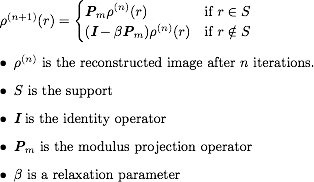
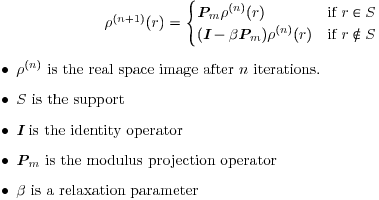
Added more documentation and a script to automagically parse latex documentation embedded in the sources files.

diff --git a/src/metadata.c b/src/metadata.c
@@ -163,10 +163,11 @@ static const char autocorrelation_algorithm_treshold_doc[] = "Apply a threshold 
 static const char autocorrelation_algorithm_area_doc[] = "Use as initial support the most intense pixels in the autocorrelation up to a certain fraction the total number of pixels. <p>The fraction is set in <em>Autocorrelation Area</em>.</p>";
 
 static const char phasing_algorithm_hio_doc[] = "<p>Use the Hybrid Input-Output(<b>HIO</b>) algorithm for phasing.</p>"
-"<p><b>HIO</b> is defined in <b>Fienup, J. R. </b> Reconstruction of an object from the modulus of its mfourier transform. <em>Opt. Lett.</em> (1978) as:</p>"
+"<p><b>HIO</b> is defined in <b>Fienup, J. R. </b> Reconstruction of an object from the modulus of its fourier transform. <em>Opt. Lett.</em> (1978) as:</p>"
 "<p><center><img src=\":/images/hio_formula.png\"></center></p>";
-
-/* Latex code for the HIO formula 
+/*
+ HIO formula 
+##LaTeX code begin for file HawkGUI/images/hio_formula.png##
 
 $\rho^{(n+1)}(r) = \begin{cases} 
 {\textbf{\em P}}_m \rho^{(n)}(r)  & \mbox{if } r \in S \\ 
@@ -174,19 +175,117 @@ $\rho^{(n+1)}(r) = \begin{cases}
 \end{cases}
 $
 \begin{itemize}
-\item $\rho^{(n)}$ is the reconstructed image after $n$ iterations.
+\item $\rho^{(n)}$ is the real space image after $n$ iterations.
 \item $S$ is the support
 \item ${\textbf{\em I}}$ is the identity operator
 \item ${\textbf{\em P}}_m$ is the modulus projection operator
 \item $\beta$ is a relaxation parameter
 \end{itemize}
-
+##LaTeX code end##
 */
 
-//static const char phasing_algorithm_hio_doc[] = 
-  //  "<img src='doc.trolltech.com/4.6/images/qt-logo.png'>";
-//"<img src=\":images/hio_formula.png\" height=50px>";
+static const char phasing_algorithm_dm_doc[] = "<p>Use the Difference Map(<b>DM</b>) algorithm for phasing.</p>"
+"<p><b>DM</b> is defined in <b>Elser, V.</b> Phase retrieval by iterated projections "
+"<em>J. Opt. Soc. Am. A</em> <b>20</b>, 40 (2003) as:</p>"
+"<p><center><img src=\":/images/dm_formula.png\"></center></p>";
+/*
+DM formula 
+ ##LaTeX code begin for file HawkGUI/images/dm_formula.png##
 
+$\rho^{(n+1)}(r) = \left\{{\textbf{\em I}} + \beta {\textbf{\em P}}_s \left[(1+\gamma_s) {\textbf{\em P}}_m-\gamma_s I\right] - \beta {\textbf{\em P}}_m\left[(1+\gamma_m){\textbf{\em P}}_s-\gamma_m {\textbf{\em I}}\right]\right\} \rho^{(n)}
+$
+\begin{itemize}
+\item $\rho^{(n)}$ is the real space image after $n$ iterations.
+\item ${\textbf{\em I}}$ is the identity operator
+\item ${\textbf{\em P}}_m$ is the modulus projection operator
+\item ${\textbf{\em P}}_s$ is the support projection operator
+\item $\gamma_s$ and $\gamma_m$ are tuning parameters
+\item $\beta$ is a relaxation parameter
+\end{itemize}
+
+##LaTeX code end##
+*/
+
+
+static const char phasing_algorithm_raar_doc[] = "<p>Use the Relaxed Averaged Alternating Reflectors"
+"(<b>RAAR</b>) algorithm for phasing.</p>"
+"<p><b>RAAR</b> is defined in <b>Luke, D. R.</b> Relaxed averaged alternating reflections for diffraction imaging <em>Inverse Probl.</em> <b>21</b>, 37 (2005) as:</p>"
+"<p><center><img src=\":/images/raar_formula.png\"></center></p>";
+/*  RAAR formula 
+##LaTeX code begin for file HawkGUI/images/raar_formula.png##
+
+$\rho^{(n+1)}(r) = \left[\beta \left({\textbf{\em R}}_s{\textbf{\em R}}_m+{\textbf{\em I}}\right)+\left(1-\beta \right){\textbf{\em P}}_m\right]\rho^{(n)}
+$
+\begin{itemize}
+\item $\rho^{(n)}$ is the real space image after $n$ iterations.
+\item ${\textbf{\em I}}$ is the identity operator
+\item ${\textbf{\em P}}_m$ is the modulus projection operator
+\item ${\textbf{\em P}}_s$ is the support projection operator
+\item ${\textbf{\em R}}_m = 2{\textbf{\em P}}_m - {\textbf{\em I}}$
+\item ${\textbf{\em R}}_s = 2{\textbf{\em P}}_s - {\textbf{\em I}}$
+\item $\beta$ is a relaxation parameter
+\end{itemize}
+##LaTeX code end##
+*/
+
+
+static const char support_update_algorithm_area_doc[] = "<p>Constrain the area of"
+" support to always match the <em>Object Area<\em>.</p>"
+"<p>The update rule is given by the following equation:</p>"
+"<p><center><img src=\":/images/area_support_update_formula.png\"></center></p>";
+/* Area Support Update formula 
+##LaTeX code begin for file HawkGUI/images/area_support_update_formula.png##
+\begin{align*}
+\phi &= \rho \convolution G(\sigma)\\
+\psi & = \text{sort}(\phi) \\
+i & = \lfloor a N \rfloor \\
+ \Pi_r & = \begin{cases}
+0 & \mbox{if } \phi_r < \psi_i \\
+1 & \mbox{if } \phi_r \ge \psi_i
+\end{cases}
+\end{align*}
+\begin{itemize}
+\item $\rho$ is the current real space image.
+\item $G(\sigma)$ is a normalized gaussian function with standard deviation $\sigma$.
+\item $\sigma$ is given by the current value of {\em Blur}
+\item sort$(x)$ sorts the vector $x$ in decreasing order
+\item $a$ is given by the current value of {\em Object Area}
+\item $N$ is the length of $\rho$
+\item $\Pi$ is the new support.
+\end{itemize}
+
+##LaTeX code end##
+*/
+
+static const char support_update_algorithm_threshold_doc[] = "<p>Define the support as those"
+  " pixels which have a value higher than a certain fraction of the maximum pixel."
+" This fraction is given by <em>Intensity Threshold<\em>.</p>"
+"<p>The update rule is given by the following equation:</p>"
+"<p><center><img src=\":/images/threshold_support_update_formula.png\"></center></p>";
+/* Area Support Update formula 
+##LaTeX code begin for file HawkGUI/images/threshold_support_update_formula.png##
+
+\begin{align*}
+\phi &= \rho \convolution G(\sigma)\\
+ \Pi_r & = \begin{cases}
+0 & \mbox{if } \phi_r < \max(\phi) \cdot t \\
+1 & \mbox{if } \phi_r \ge \max(\phi) \cdot t
+\end{cases}
+\end{align*}
+\begin{itemize}
+\item $\rho$ is the current real space image.
+\item $G(\sigma)$ is a normalized gaussian function with standard deviation $\sigma$.
+\item $\sigma$ is given by the current value of {\em Blur}
+\item $t$ is given by the current value of {\em Intensity Threshold}
+\item $\Pi$ is the new support.
+\end{itemize}
+
+##LaTeX code end##
+*/
+
+static const char support_update_algorithm_static_doc[] = "<p>Do not update the support</p>";
+
+static const char undocumented_doc[] = "<p>Currently undocumented</p>";
 
 /* All list_valid_names must be in lower case as this is currently 
    assumed in configuration.c! */
@@ -1866,9 +1965,10 @@ VariableMetadata variable_metadata[] = {
     .list_valid_names = {"hio","raar","diff_map","hpr","cflip","raar_cflip","espresso","haar","so2d","raar_proj", "hio_proj",0},
     .list_properties = {0,0,0,experimental,experimental,experimental,experimental,experimental,experimental,experimental,experimental,0},
     .variable_address = &(global_options.algorithm),
-    .documentation = "The type of algorithm used during the phase retrieval. A few other options then depend on the type of algorithm chosen.",
+    .documentation = "<p>The type of algorithm used during the phase retrieval. A few other options then depend on the type of algorithm chosen.</p><p>Please check the individual algorithm documentation for more information.</p>",
     .dependencies = NULL,
-    .list_documentation = {phasing_algorithm_hio_doc,0},
+    .list_documentation = {phasing_algorithm_hio_doc,phasing_algorithm_raar_doc,
+			   phasing_algorithm_dm_doc,0},
     .reserved = NULL
   },
   {
@@ -1897,6 +1997,8 @@ VariableMetadata variable_metadata[] = {
     .list_valid_names = {"threshold","static","stepped","real_error_capped","real_error_adaptative","constant_area","area","complex_decreasing_area","template_area",0},
     .variable_address = &(global_options.support_update_algorithm),
     .dependencies = NULL,
+    .list_documentation = {support_update_algorithm_threshold_doc, support_update_algorithm_static_doc, undocumented_doc, undocumented_doc, undocumented_doc, undocumented_doc,support_update_algorithm_area_doc,undocumented_doc,undocumented_doc,0},
+    .documentation = "<p>The type of algorithm used for updating the support.</p><p> Please check the individual algorithms documentation for more information.</p>",
     .reserved = NULL
   },
   {
